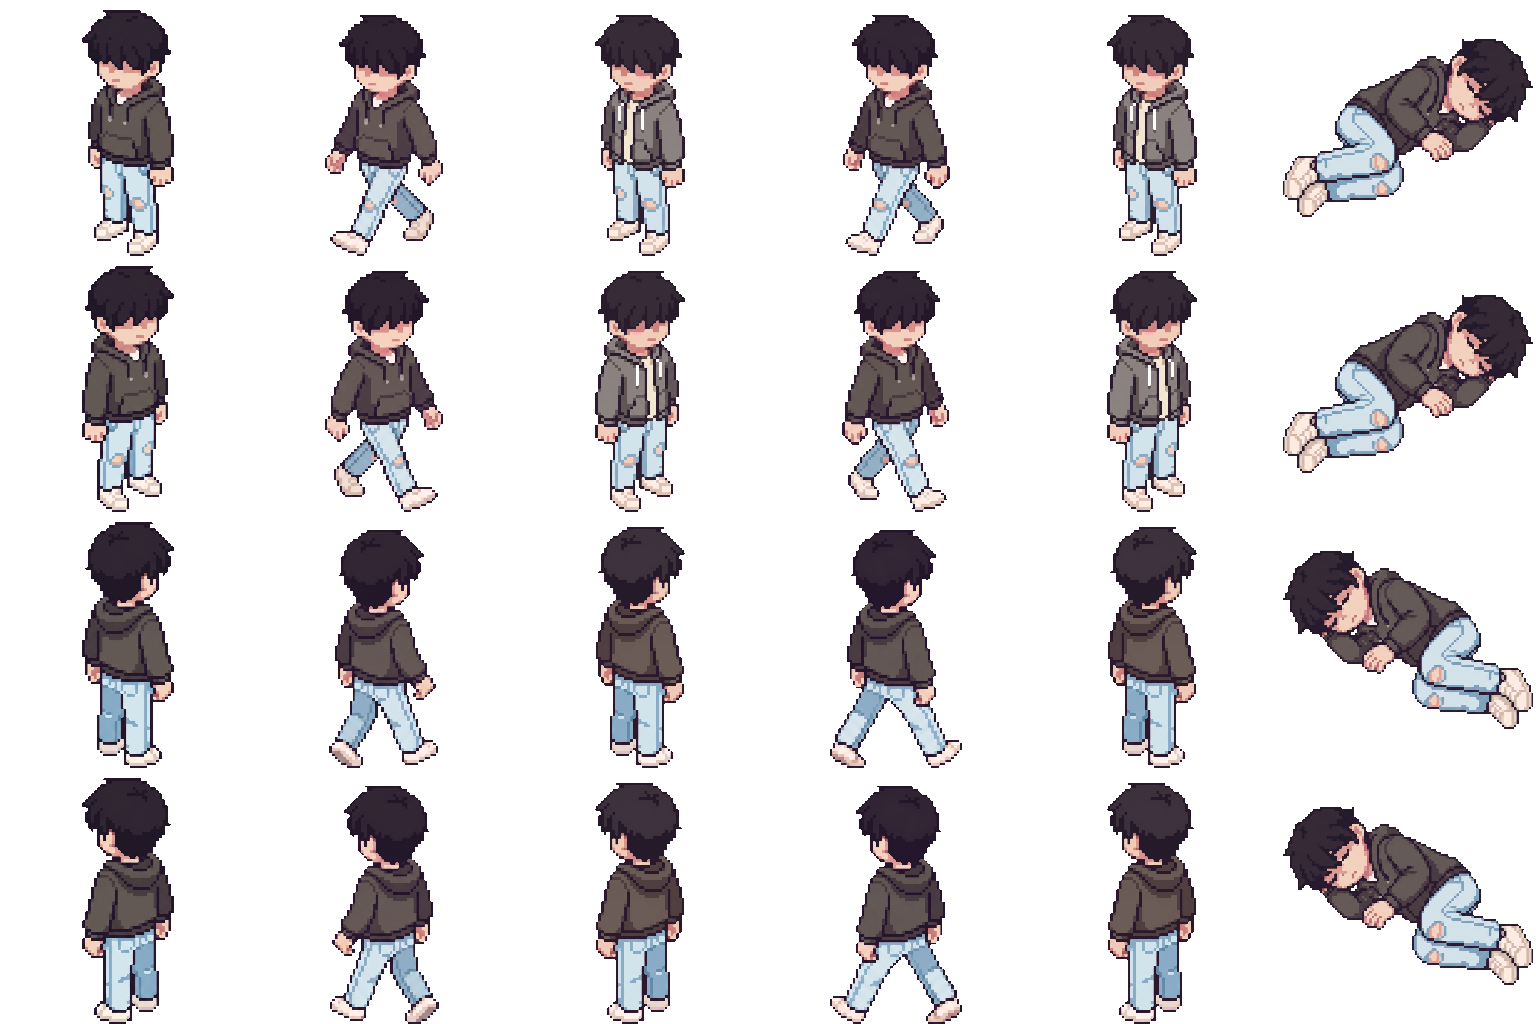
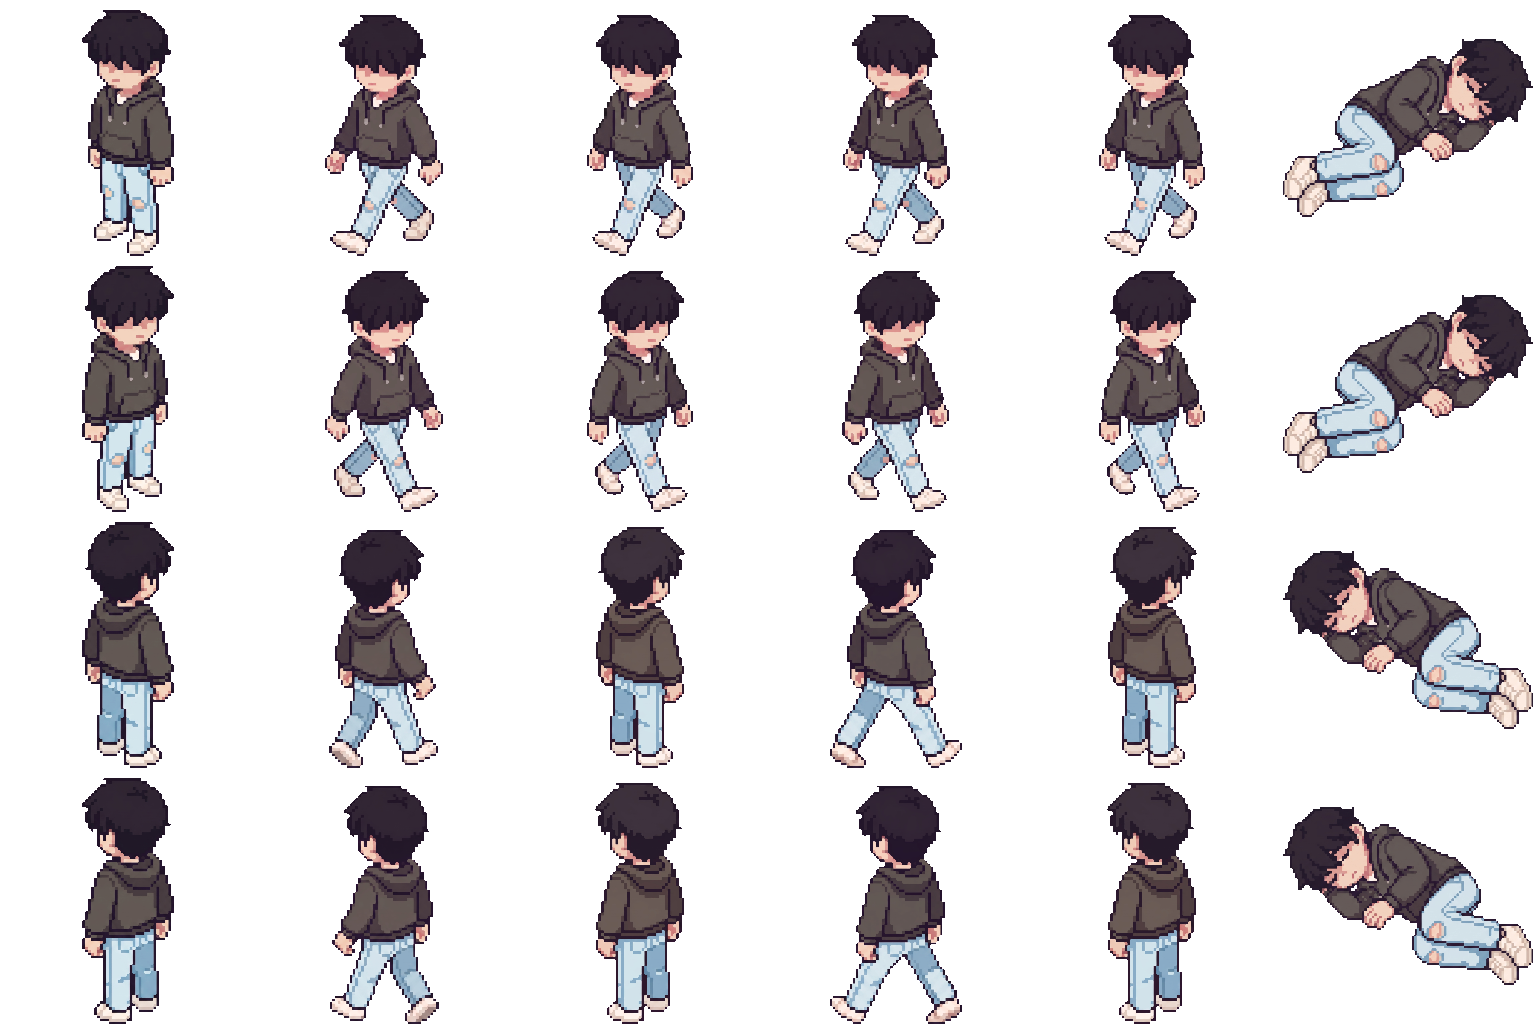
A coat keeps its colour across a stride, and tariq's does
The middle third of a front-facing figure is measured against its idle as a colour distribution, and a frame whose torso drifts past what any shipped sheet does is drawn again instead of shipped. Tariq's passing frame is redrawn with the dark open hoodie every other frame wears.

Claude-Session: https://claude.ai/code/session_01Fv7TMdGbp6aijJ41zaaSTX

diff --git a/packages/forge/src/walkGates.ts b/packages/forge/src/walkGates.ts
@@ -62,8 +62,44 @@ export function magentaResidue(img: RawImage): number {
   return n
 }
 
+/** The torso band is the middle third of the figure box: below the head, above the legs. Its
+ *  colours, binned 4 levels a channel and compared as distributions (L1, 0–2), must stay close
+ *  to the row's idle. Front rows on the shipped sixteen measure 0.10–0.64; the hoodie that
+ *  flickered light and zipped measured 0.95. Back rows are exempt: a coat's back and a
+ *  swinging arm put different cloth in the band each stride (reza's measures 1.47, bashir's 1.00). */
+export const TORSO_DRIFT_MAX = 0.8
+
+const BINS = 4
+const bin = (v: number): number => Math.min(BINS - 1, Math.floor((v / 256) * BINS))
+
+export function torsoHistogram(img: RawImage): Float64Array {
+  const h = new Float64Array(BINS * BINS * BINS)
+  const b = opaqueBbox(img)
+  if (b === null) return h
+  const third = Math.round((b.y1 - b.y0 + 1) / 3)
+  let n = 0
+  for (let y = b.y0 + third; y < b.y0 + 2 * third; y++)
+    for (let x = b.x0; x <= b.x1; x++) {
+      const i = (y * img.width + x) * 4
+      if (img.data[i + 3]! === 0) continue
+      h[bin(img.data[i]!) * BINS * BINS + bin(img.data[i + 1]!) * BINS + bin(img.data[i + 2]!)]! +=
+        1
+      n++
+    }
+  if (n > 0) for (let k = 0; k < h.length; k++) h[k]! /= n
+  return h
+}
+
+export function torsoDrift(cell: RawImage, idle: RawImage): number {
+  const a = torsoHistogram(cell),
+    b = torsoHistogram(idle)
+  let d = 0
+  for (let k = 0; k < a.length; k++) d += Math.abs(a[k]! - b[k]!)
+  return d
+}
+
 export type WalkRowFailure = {
-  gate: 'walk-height' | 'head-skin'
+  gate: 'walk-height' | 'head-skin' | 'torso-drift'
   cell: string
   value: number
   limit: number
@@ -91,5 +127,12 @@ export function walkRowGate(
           out.push({ gate: 'head-skin', cell: c, value: share, limit: HEAD_SKIN_SHARE_MIN })
       }
   }
+  if (frontFacing)
+    for (const c of WALK_CELLS) {
+      if (c === 'idle') continue
+      const drift = torsoDrift(cells[c], cells.idle)
+      if (drift > TORSO_DRIFT_MAX)
+        out.push({ gate: 'torso-drift', cell: c, value: drift, limit: TORSO_DRIFT_MAX })
+    }
   return out
 }

diff --git a/packages/forge/scripts/gen-cast-v5.ts b/packages/forge/scripts/gen-cast-v5.ts
@@ -42,7 +42,14 @@ import { trimToFigure } from '../src/hires.js'
 import { packCharacterAtlas } from '../src/atlasV4.js'
 import { alphaBinaryGate, paletteDistance, soleSilhouetteGate } from '../src/pixelGates.js'
 import { quantize } from '../src/post/quantize.js'
-import { MAGENTA_RESIDUE_MAX, WALK_CELLS, magentaResidue, walkRowGate } from '../src/walkGates.js'
+import {
+  MAGENTA_RESIDUE_MAX,
+  TORSO_DRIFT_MAX,
+  WALK_CELLS,
+  magentaResidue,
+  torsoDrift,
+  walkRowGate,
+} from '../src/walkGates.js'
 import { refusalMessage } from '../src/gate.js'
 import { CAST_CONTENT_DIR } from '../src/castArt.js'
 import { BIG_PIXEL, PROPORTION_CLAUSE } from './character.js'
@@ -487,7 +494,19 @@ async function runCharacter(m: CastMember): Promise<void> {
       p === 'passing'
         ? []
         : stanceGate(f, idleHi[f], [{ label: p, img: hi }]).map((x) => ({ ...x, a: key }))
-    return { key, hi, gate, failures: [...coherenceGateV4(key, masterGate[f], gate), ...stance] }
+    // A coat that changes colour for one frame flickers at 8 fps; judged here so the next
+    // candidate is drawn, not at the end when the whole sheet is refused.
+    const drift = f === 'se' ? torsoDrift(hi, idleHi.se) : 0
+    const coat: GateFailure[] =
+      drift > TORSO_DRIFT_MAX
+        ? [{ gate: 'torso-drift', a: key, b: 'se/idle', value: drift, limit: TORSO_DRIFT_MAX }]
+        : []
+    return {
+      key,
+      hi,
+      gate,
+      failures: [...coherenceGateV4(key, masterGate[f], gate), ...stance, ...coat],
+    }
   }
   const identityBroken = (c: FrameCand): boolean =>
     c.failures.some((x) => x.gate === 'silhouette' && (x.value > 1.5 || x.value < 0.55))

diff --git a/packages/forge/scripts/cast-v5.ts b/packages/forge/scripts/cast-v5.ts
@@ -126,8 +126,9 @@ export const CAST_V5: readonly CastMember[] = [
       'faded pale-blue jeans with a torn knee, and white canvas sneakers',
     featureCap:
       'Only THREE signature features: the shaggy black hair, the charcoal-grey hoodie, the ' +
-      'pale-blue torn jeans. No notebook, no pen, no guitar, no headphones, no extra props. Both ' +
-      'hands are EMPTY.',
+      'pale-blue torn jeans. The hoodie is ONE dark charcoal-grey colour in every frame, worn ' +
+      'open with no zip, no lighter panel and no shirt showing. No notebook, no pen, no guitar, ' +
+      'no headphones, no extra props. Both hands are EMPTY.',
   },
   {
     // 67, m — the old schoolmaster; the waistcoat is the last of the classroom.

diff --git a/packages/forge/src/castAudit.test.ts b/packages/forge/src/castAudit.test.ts
@@ -295,6 +295,12 @@ describe('every committed walk row keeps one height and, facing front, one face'
       'head-skin',
     )
     expect(walkRowGate({ ...row, 'passing-a': back }, false)).toEqual([])
+    // Another villager's coat where his overalls should be.
+    const farida = cast.find((x) => x.id === 'farida')!
+    const coat = cropper(farida, await atlasOf(farida))('passing-a-se')
+    expect(walkRowGate({ ...row, 'passing-a': coat }, true).map((x) => x.gate)).toContain(
+      'torso-drift',
+    )
   })
 })
 

diff --git a/packages/forge/src/sheet.ts b/packages/forge/src/sheet.ts
@@ -408,6 +408,7 @@ export type GateFailure = {
     | 'lying'
     | 'lying-axis'
     | 'stance'
+    | 'torso-drift'
   a: string
   b: string
   value: number
